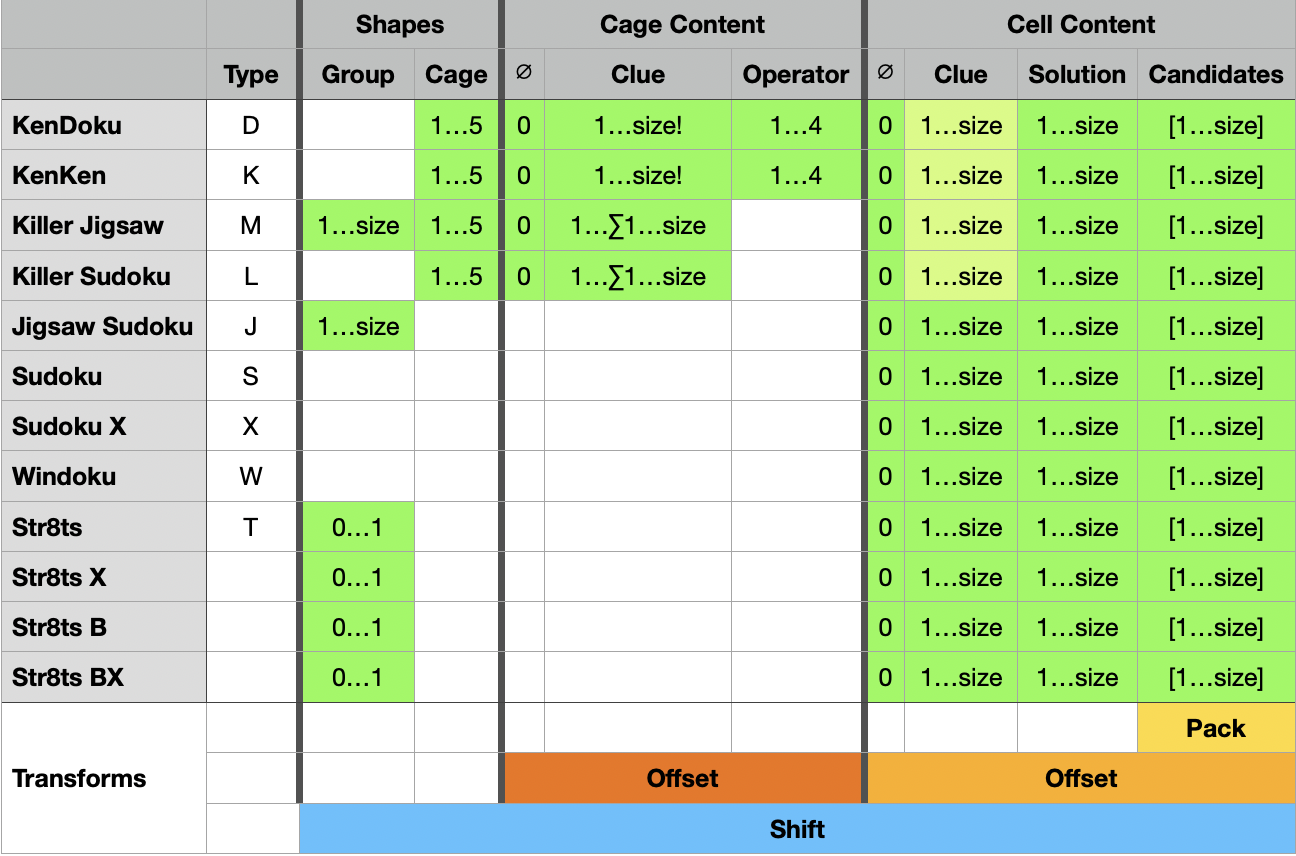
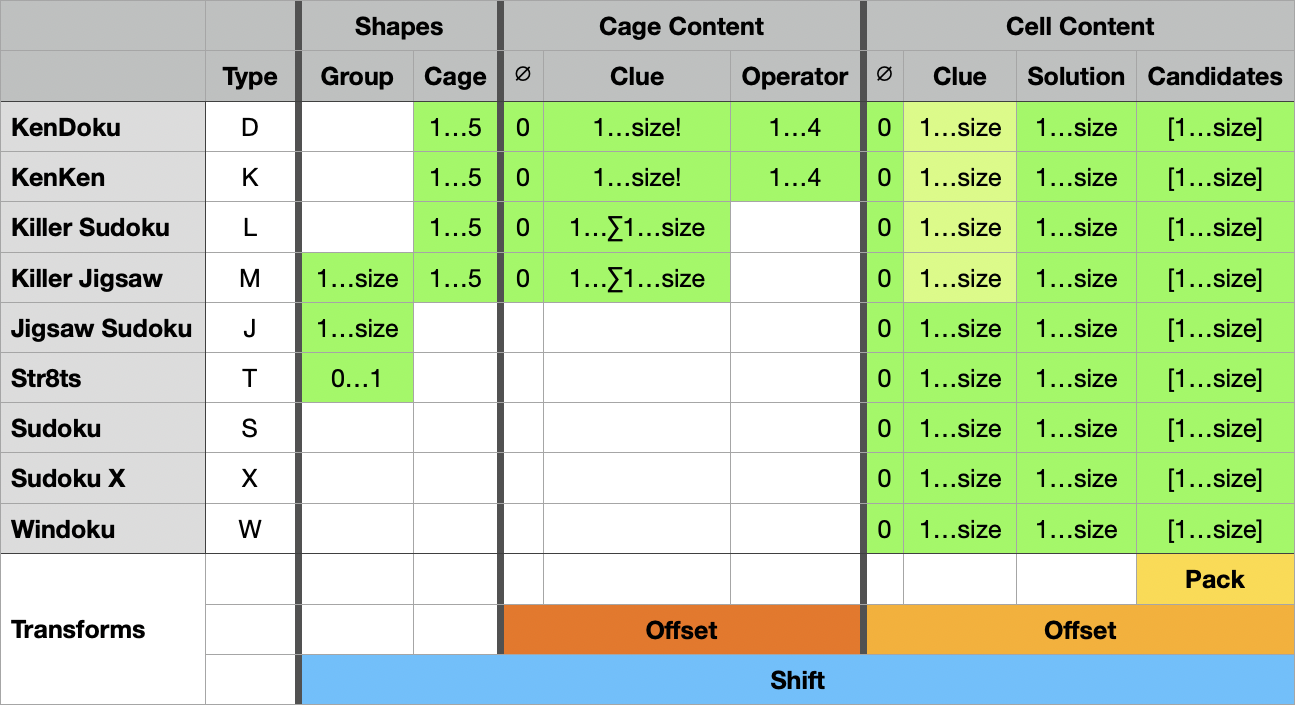
Curate articles

diff --git a/Sources/PuzzleCoding/Puzzles/Puzzle.swift b/Sources/PuzzleCoding/Puzzles/Puzzle.swift
@@ -16,7 +16,7 @@ public protocol Puzzle: RawRepresentable, RandomAccessCollection<Cell> {
     /// Creates an instance.
     /// - Parameters:
     ///     - cells: the puzzle content.
-    ///     - version: the encoding version
+    ///     - version: the coding version.
     init(cells: some Collection<Cell>, version: Version) throws
 
     /// The encoded puzzle.

diff --git a/Sources/PuzzleCoding/Documentation.docc/EncodingFormats.md b/Sources/PuzzleCoding/Documentation.docc/EncodingFormats.md
@@ -17,9 +17,9 @@ The header's purpose is to describe what comes later. It contains the puzzle typ
 As new requirements for the transferred data evolve the version will change.
 
 A sample header: `S9B`
-- The first character is the puzzle type
-- The second character is the puzzle size (base 36)
-- The third character is the encoding version, a letter A...Z
+- The first character is the puzzle type.
+- The second character is the puzzle size (base 36).
+- The third character is the encoding version, a letter A...Z.
 
 @Row {
     @Column {
@@ -32,9 +32,9 @@ A sample header: `S9B`
         KenKen        |   K
         Killer Jigsaw |   M
         Killer Sudoku |   L
+        Str8ts        |   T
         Sudoku        |   S
         SudokuX       |   X
-        Str8ts        |   T
         Windoku       |   W       
     }
     

diff --git a/Sources/PuzzleCoding/Documentation.docc/Shapes.md b/Sources/PuzzleCoding/Documentation.docc/Shapes.md
@@ -4,7 +4,7 @@ A shape is a group of puzzle cells.
 
 ## Overview
 
-Shapes are used to describe irregular groups of cells such as a Jigsaw piece or a cage.
+Shapes are used to describe irregular groups of cells such as Jigsaw pieces or cages.
 
 @Row {
     @Column {
@@ -22,7 +22,6 @@ In order to describe a shape:
 - Iterate the puzzle cells starting at A1.
 - If the cell is the first of a shape, assign it a number, otherwise use the number of the shape of which the cell is a member.
 - Be sure to keep the numbers within the limits imposed by the data requirements.
-- For some puzzle types, like those with cages, numbers are recycled when no adjacent cells have the same color. 
 
 The shape numbering for the cage diagram shown on the right is: 
 

diff --git a/Sources/PuzzleCoding/Documentation.docc/PuzzleCoding.md b/Sources/PuzzleCoding/Documentation.docc/PuzzleCoding.md
@@ -36,10 +36,10 @@ You can learn about the <doc:EncodingFormats> or keep reading for an overview of
 ### Essentials
 
 - ``Cell``
+- ``Puzzle``
+- ``CodingVersion``
 
-### Puzzle Coders
-
-Puzzle coders convert puzzles to strings and back.
+### Puzzles
 
 - ``JigsawSudoku``
 - ``KenDoku``
@@ -51,7 +51,15 @@ Puzzle coders convert puzzles to strings and back.
 - ``SudokuX``
 - ``Windoku``
 
-### Protocols
+### Encoding
 
-- ``CodingVersion``
-- ``Puzzle``
+- <doc:EncodingFormats>
+- <doc:PackCandidates>
+- <doc:OffsetTransform>
+- <doc:CellContentTransform>
+- <doc:KenCageContentTransform>
+- <doc:KillerCageContentTransform>
+- <doc:ShiftTransform>
+- <doc:FieldCoding>
+- <doc:Shapes>
+- <doc:Cages>
